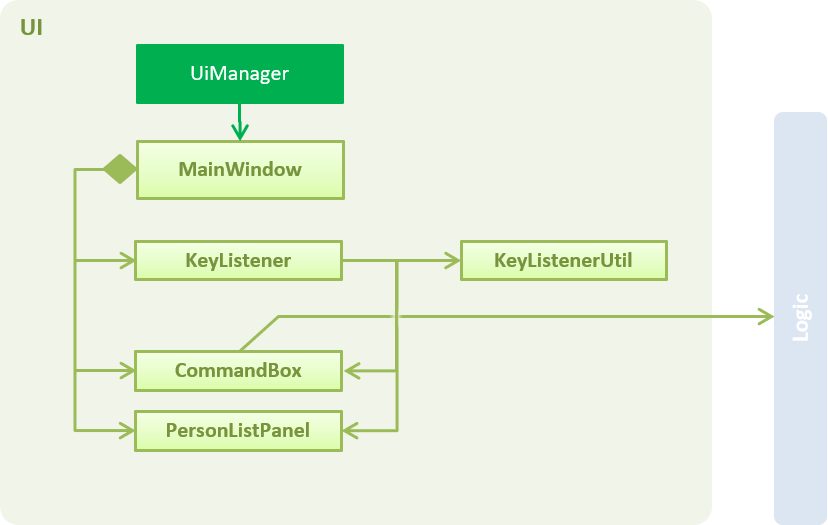
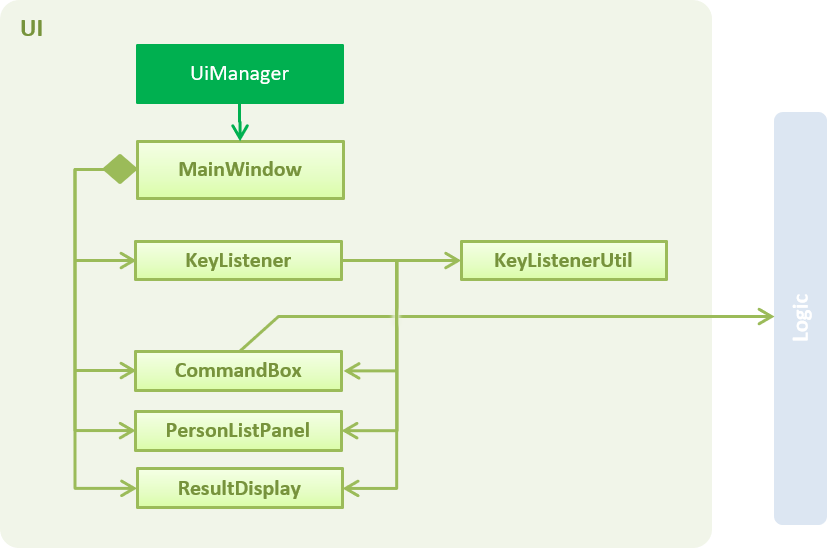
Rebuild pages at 8898ae6a1623f5440aaad7047439b4f2301437f1

diff --git a/Help.html b/Help.html
@@ -744,7 +744,8 @@ Keyboard shortcut: <span class="keyseq"><kbd>Ctrl</kbd>+<kbd>Shift</kbd>+<kbd>D<
 <h3 id="opening-an-existing-rolodex-storage-file-code-open-code-code-o-code-code-cd-code-code-ls-code-code-code"><a class="link" href="#opening-an-existing-rolodex-storage-file-code-open-code-code-o-code-code-cd-code-code-ls-code-code-code">2.14. Opening an existing Rolodex storage file: <code>open</code>, <code>o</code>, <code>cd</code>, <code>ls</code>, <code>&lt;</code></a></h3>
 <div class="paragraph">
 <p>Reloads the application with data from a rolodex at the specified filepath.<br>
-Format: <code>open FILEPATH</code> or <code>o FILEPATH</code></p>
+Format: <code>open FILEPATH</code> or <code>o FILEPATH</code>
+Keyboard Shortcut: <span class="keyseq"><kbd>Ctrl</kbd>+<kbd>O</kbd></span></p>
 </div>
 <div class="sidebarblock">
 <div class="content">
@@ -809,7 +810,8 @@ Loads the application with the data in <code>default.rldx</code> in the folder <
 <h3 id="creating-a-new-rolodex-storage-file-code-new-code-code-n-code-code-touch-code-or-code-code"><a class="link" href="#creating-a-new-rolodex-storage-file-code-new-code-code-n-code-code-touch-code-or-code-code">2.15. Creating a new Rolodex storage file: <code>new</code>, <code>n</code>, <code>touch</code> or <code>&gt;</code></a></h3>
 <div class="paragraph">
 <p>Creates a new Rolodex at the specified filepath and reloads the application with new sample data.<br>
-Format: <code>new FILEPATH</code> or <code>n FILEPATH</code></p>
+Format: <code>new FILEPATH</code> or <code>n FILEPATH</code>
+Keyboard Shortcut: <span class="keyseq"><kbd>Ctrl</kbd>+<kbd>N</kbd></span></p>
 </div>
 <div class="sidebarblock">
 <div class="content">
@@ -1046,6 +1048,14 @@ There is no need to save manually.</p>
 <td class="tableblock halign-left valign-top"><p class="tableblock"><kbd>F1</kbd></p></td>
 <td class="tableblock halign-left valign-top"><p class="tableblock">View help window</p></td>
 </tr>
+<tr>
+<td class="tableblock halign-left valign-top"><p class="tableblock"><span class="keyseq"><kbd>Ctrl</kbd>+<kbd>O</kbd></span></p></td>
+<td class="tableblock halign-left valign-top"><p class="tableblock">Open a Rolodex file</p></td>
+</tr>
+<tr>
+<td class="tableblock halign-left valign-top"><p class="tableblock"><span class="keyseq"><kbd>Ctrl</kbd>+<kbd>N</kbd></span></p></td>
+<td class="tableblock halign-left valign-top"><p class="tableblock">Create new Rolodex file</p></td>
+</tr>
 </tbody>
 </table>
 </div>
@@ -1068,8 +1078,12 @@ There is no need to save manually.</p>
 <td class="tableblock halign-left valign-top"><p class="tableblock">Select the command box</p></td>
 </tr>
 <tr>
-<td class="tableblock halign-left valign-top"><p class="tableblock"><kbd>Esc</kbd></p></td>
-<td class="tableblock halign-left valign-top"><p class="tableblock">Deselect the command box</p></td>
+<td class="tableblock halign-left valign-top"><p class="tableblock"><kbd>Esc</kbd> or <span class="keyseq"><kbd>Ctrl</kbd>+<kbd>←</kbd></span></p></td>
+<td class="tableblock halign-left valign-top"><p class="tableblock">Select the contact list panel</p></td>
+</tr>
+<tr>
+<td class="tableblock halign-left valign-top"><p class="tableblock"><span class="keyseq"><kbd>Ctrl</kbd>+<kbd>→</kbd></span></p></td>
+<td class="tableblock halign-left valign-top"><p class="tableblock">Select the result display panel</p></td>
 </tr>
 <tr>
 <td class="tableblock halign-left valign-top" colspan="2"><p class="tableblock">When the command box is not in selection:</p></td>
@@ -1094,7 +1108,7 @@ There is no need to save manually.</p>
 </div>
 <div id="footer">
 <div id="footer-text">
-Last updated 2017-10-21 22:50:47 +00:00
+Last updated 2017-10-23 10:37:30 +00:00
 </div>
 </div>
 </body>

diff --git a/UserGuide.html b/UserGuide.html
@@ -744,7 +744,8 @@ Keyboard shortcut: <span class="keyseq"><kbd>Ctrl</kbd>+<kbd>Shift</kbd>+<kbd>D<
 <h3 id="opening-an-existing-rolodex-storage-file-code-open-code-code-o-code-code-cd-code-code-ls-code-code-code"><a class="link" href="#opening-an-existing-rolodex-storage-file-code-open-code-code-o-code-code-cd-code-code-ls-code-code-code">2.14. Opening an existing Rolodex storage file: <code>open</code>, <code>o</code>, <code>cd</code>, <code>ls</code>, <code>&lt;</code></a></h3>
 <div class="paragraph">
 <p>Reloads the application with data from a rolodex at the specified filepath.<br>
-Format: <code>open FILEPATH</code> or <code>o FILEPATH</code></p>
+Format: <code>open FILEPATH</code> or <code>o FILEPATH</code>
+Keyboard Shortcut: <span class="keyseq"><kbd>Ctrl</kbd>+<kbd>O</kbd></span></p>
 </div>
 <div class="sidebarblock">
 <div class="content">
@@ -809,7 +810,8 @@ Loads the application with the data in <code>default.rldx</code> in the folder <
 <h3 id="creating-a-new-rolodex-storage-file-code-new-code-code-n-code-code-touch-code-or-code-code"><a class="link" href="#creating-a-new-rolodex-storage-file-code-new-code-code-n-code-code-touch-code-or-code-code">2.15. Creating a new Rolodex storage file: <code>new</code>, <code>n</code>, <code>touch</code> or <code>&gt;</code></a></h3>
 <div class="paragraph">
 <p>Creates a new Rolodex at the specified filepath and reloads the application with new sample data.<br>
-Format: <code>new FILEPATH</code> or <code>n FILEPATH</code></p>
+Format: <code>new FILEPATH</code> or <code>n FILEPATH</code>
+Keyboard Shortcut: <span class="keyseq"><kbd>Ctrl</kbd>+<kbd>N</kbd></span></p>
 </div>
 <div class="sidebarblock">
 <div class="content">
@@ -1046,6 +1048,14 @@ There is no need to save manually.</p>
 <td class="tableblock halign-left valign-top"><p class="tableblock"><kbd>F1</kbd></p></td>
 <td class="tableblock halign-left valign-top"><p class="tableblock">View help window</p></td>
 </tr>
+<tr>
+<td class="tableblock halign-left valign-top"><p class="tableblock"><span class="keyseq"><kbd>Ctrl</kbd>+<kbd>O</kbd></span></p></td>
+<td class="tableblock halign-left valign-top"><p class="tableblock">Open a Rolodex file</p></td>
+</tr>
+<tr>
+<td class="tableblock halign-left valign-top"><p class="tableblock"><span class="keyseq"><kbd>Ctrl</kbd>+<kbd>N</kbd></span></p></td>
+<td class="tableblock halign-left valign-top"><p class="tableblock">Create new Rolodex file</p></td>
+</tr>
 </tbody>
 </table>
 </div>
@@ -1068,8 +1078,12 @@ There is no need to save manually.</p>
 <td class="tableblock halign-left valign-top"><p class="tableblock">Select the command box</p></td>
 </tr>
 <tr>
-<td class="tableblock halign-left valign-top"><p class="tableblock"><kbd>Esc</kbd></p></td>
-<td class="tableblock halign-left valign-top"><p class="tableblock">Deselect the command box</p></td>
+<td class="tableblock halign-left valign-top"><p class="tableblock"><kbd>Esc</kbd> or <span class="keyseq"><kbd>Ctrl</kbd>+<kbd>←</kbd></span></p></td>
+<td class="tableblock halign-left valign-top"><p class="tableblock">Select the contact list panel</p></td>
+</tr>
+<tr>
+<td class="tableblock halign-left valign-top"><p class="tableblock"><span class="keyseq"><kbd>Ctrl</kbd>+<kbd>→</kbd></span></p></td>
+<td class="tableblock halign-left valign-top"><p class="tableblock">Select the result display panel</p></td>
 </tr>
 <tr>
 <td class="tableblock halign-left valign-top" colspan="2"><p class="tableblock">When the command box is not in selection:</p></td>
@@ -1116,7 +1130,7 @@ There is no need to save manually.</p>
 </div>
 <div id="footer">
 <div id="footer-text">
-Last updated 2017-10-21 22:50:47 +00:00
+Last updated 2017-10-23 10:37:30 +00:00
 </div>
 </div>
 </body>

diff --git a/team/Jolyn.html b/team/Jolyn.html
@@ -81,6 +81,14 @@ and <code>View help window</code> which came with the original state of the appl
 <td class="tableblock halign-left valign-top"><p class="tableblock"><kbd>F1</kbd></p></td>
 <td class="tableblock halign-left valign-top"><p class="tableblock">View help window</p></td>
 </tr>
+<tr>
+<td class="tableblock halign-left valign-top"><p class="tableblock"><span class="keyseq"><kbd>Ctrl</kbd>+<kbd>O</kbd></span></p></td>
+<td class="tableblock halign-left valign-top"><p class="tableblock">Open a Rolodex file</p></td>
+</tr>
+<tr>
+<td class="tableblock halign-left valign-top"><p class="tableblock"><span class="keyseq"><kbd>Ctrl</kbd>+<kbd>N</kbd></span></p></td>
+<td class="tableblock halign-left valign-top"><p class="tableblock">Create new Rolodex file</p></td>
+</tr>
 </tbody>
 </table>
 </div>
@@ -103,8 +111,12 @@ and <code>View help window</code> which came with the original state of the appl
 <td class="tableblock halign-left valign-top"><p class="tableblock">Select the command box</p></td>
 </tr>
 <tr>
-<td class="tableblock halign-left valign-top"><p class="tableblock"><kbd>Esc</kbd></p></td>
-<td class="tableblock halign-left valign-top"><p class="tableblock">Deselect the command box</p></td>
+<td class="tableblock halign-left valign-top"><p class="tableblock"><kbd>Esc</kbd> or <span class="keyseq"><kbd>Ctrl</kbd>+<kbd>←</kbd></span></p></td>
+<td class="tableblock halign-left valign-top"><p class="tableblock">Select the contact list panel</p></td>
+</tr>
+<tr>
+<td class="tableblock halign-left valign-top"><p class="tableblock"><span class="keyseq"><kbd>Ctrl</kbd>+<kbd>→</kbd></span></p></td>
+<td class="tableblock halign-left valign-top"><p class="tableblock">Select the result display panel</p></td>
 </tr>
 <tr>
 <td class="tableblock halign-left valign-top" colspan="2"><p class="tableblock">When the command box is not in selection:</p></td>
@@ -159,8 +171,8 @@ The mapping of actions to key events are found in the <code>KeyListenerUtil</cod
 </div>
 </div>
 <div class="paragraph">
-<p>The <code>KeyListener</code> requires access to the <code>CommandBox</code> and <code>PersonListPanel</code> for key event executions,
-such as changing the focus node and executing word commands.</p>
+<p>The <code>KeyListener</code> requires access to the <code>CommandBox</code>, <code>PersonListPanel</code> and <code>ResultDisplay</code> for key event executions,
+such as changing the focus node.</p>
 </div>
 <div class="paragraph">
 <p>When the user launches the application, the <code>UiManager</code> calls <code>mainWindow.setKeyListeners()</code>
@@ -345,7 +357,7 @@ Sets the profile picture of the 6th person to <code>john.png</code>.</p>
 </div>
 <div id="footer">
 <div id="footer-text">
-Last updated 2017-10-21 22:50:47 +00:00
+Last updated 2017-10-23 10:37:30 +00:00
 </div>
 </div>
 </body>

diff --git a/team/ZhanYu.html b/team/ZhanYu.html
@@ -637,7 +637,8 @@ comparator before executing a sort and filter which is handled by the event cons
 <h5 id="opening-an-existing-rolodex-storage-file-code-open-code-code-o-code-code-cd-code-code-ls-code-code-code"><a class="link" href="#opening-an-existing-rolodex-storage-file-code-open-code-code-o-code-code-cd-code-code-ls-code-code-code">Opening an existing Rolodex storage file: <code>open</code>, <code>o</code>, <code>cd</code>, <code>ls</code>, <code>&lt;</code></a></h5>
 <div class="paragraph">
 <p>Reloads the application with data from a rolodex at the specified filepath.<br>
-Format: <code>open FILEPATH</code> or <code>o FILEPATH</code></p>
+Format: <code>open FILEPATH</code> or <code>o FILEPATH</code>
+Keyboard Shortcut: <span class="keyseq"><kbd>Ctrl</kbd>+<kbd>O</kbd></span></p>
 </div>
 <div class="sidebarblock">
 <div class="content">
@@ -702,7 +703,8 @@ Loads the application with the data in <code>default.rldx</code> in the folder <
 <h5 id="creating-a-new-rolodex-storage-file-code-new-code-code-n-code-code-touch-code-or-code-code"><a class="link" href="#creating-a-new-rolodex-storage-file-code-new-code-code-n-code-code-touch-code-or-code-code">Creating a new Rolodex storage file: <code>new</code>, <code>n</code>, <code>touch</code> or <code>&gt;</code></a></h5>
 <div class="paragraph">
 <p>Creates a new Rolodex at the specified filepath and reloads the application with new sample data.<br>
-Format: <code>new FILEPATH</code> or <code>n FILEPATH</code></p>
+Format: <code>new FILEPATH</code> or <code>n FILEPATH</code>
+Keyboard Shortcut: <span class="keyseq"><kbd>Ctrl</kbd>+<kbd>N</kbd></span></p>
 </div>
 <div class="sidebarblock">
 <div class="content">
@@ -1065,7 +1067,7 @@ access on a java <code>HashSet</code>, in the worst case.</p>
 </div>
 <div id="footer">
 <div id="footer-text">
-Last updated 2017-10-21 22:50:47 +00:00
+Last updated 2017-10-23 10:37:30 +00:00
 </div>
 </div>
 </body>

diff --git a/DeveloperGuide.html b/DeveloperGuide.html
@@ -1358,8 +1358,8 @@ The mapping of actions to key events are found in the <code>KeyListenerUtil</cod
 </div>
 </div>
 <div class="paragraph">
-<p>The <code>KeyListener</code> requires access to the <code>CommandBox</code> and <code>PersonListPanel</code> for key event executions,
-such as changing the focus node and executing word commands.</p>
+<p>The <code>KeyListener</code> requires access to the <code>CommandBox</code>, <code>PersonListPanel</code> and <code>ResultDisplay</code> for key event executions,
+such as changing the focus node.</p>
 </div>
 <div class="paragraph">
 <p>When the user launches the application, the <code>UiManager</code> calls <code>mainWindow.setKeyListeners()</code>
@@ -3107,7 +3107,7 @@ tags matching the specified query</p>
 </div>
 <div id="footer">
 <div id="footer-text">
-Last updated 2017-10-21 22:50:47 +00:00
+Last updated 2017-10-23 10:37:30 +00:00
 </div>
 </div>
 </body>

diff --git a/LearningOutcomes.html b/LearningOutcomes.html
@@ -583,7 +583,7 @@ class gives some examples of how to use <em>Equivalence Partitions</em>, <em>Bou
 </div>
 <div id="footer">
 <div id="footer-text">
-Last updated 2017-10-21 22:50:47 +00:00
+Last updated 2017-10-23 10:37:30 +00:00
 </div>
 </div>
 </body>

diff --git a/UsingGradle.html b/UsingGradle.html
@@ -283,7 +283,7 @@ See <code>build.gradle</code> &#8594; <code>allprojects</code> &#8594; <code>dep
 </div>
 <div id="footer">
 <div id="footer-text">
-Last updated 2017-10-21 22:50:47 +00:00
+Last updated 2017-10-23 10:37:30 +00:00
 </div>
 </div>
 </body>

diff --git a/team/Mingrui.html b/team/Mingrui.html
@@ -75,7 +75,7 @@ The user interacts with it using a CLI, and it has a GUI created with JavaFX. It
 </div>
 <div id="footer">
 <div id="footer-text">
-Last updated 2017-10-21 22:50:47 +00:00
+Last updated 2017-10-23 10:37:30 +00:00
 </div>
 </div>
 </body>

diff --git a/UsingTravis.html b/UsingTravis.html
@@ -321,7 +321,7 @@ Suggested change: Remove the codacy badge from <code>README</code>.</p>
 </div>
 <div id="footer">
 <div id="footer-text">
-Last updated 2017-10-21 22:50:47 +00:00
+Last updated 2017-10-23 10:37:30 +00:00
 </div>
 </div>
 </body>

diff --git a/index.html b/index.html
@@ -108,7 +108,7 @@ It is written in Java, and has about 6 kLoC.<br></p>
 </div>
 <div id="footer">
 <div id="footer-text">
-Last updated 2017-10-21 22:50:47 +00:00
+Last updated 2017-10-23 10:37:30 +00:00
 </div>
 </div>
 </body>

diff --git a/UsingCheckstyle.html b/UsingCheckstyle.html
@@ -125,7 +125,7 @@ Restart the IDE to complete the installation.</p>
 </div>
 <div id="footer">
 <div id="footer-text">
-Last updated 2017-10-21 22:50:47 +00:00
+Last updated 2017-10-23 10:37:30 +00:00
 </div>
 </div>
 </body>

diff --git a/TestDocument.html b/TestDocument.html
@@ -200,7 +200,7 @@ This should be on a new line.</p>
 </div>
 <div id="footer">
 <div id="footer-text">
-Last updated 2017-10-21 22:50:47 +00:00
+Last updated 2017-10-23 10:37:30 +00:00
 </div>
 </div>
 </body>
